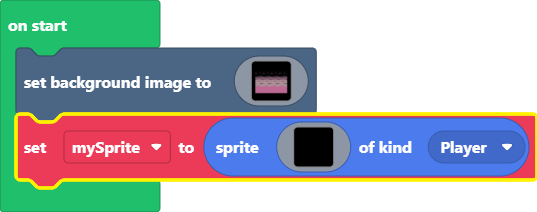
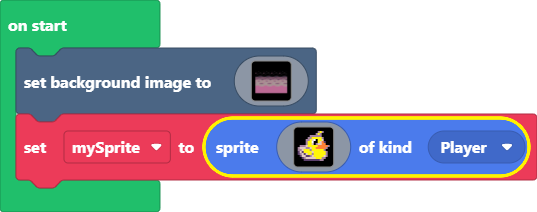
Update main.blocks, main.ts

Changed region(s): [[0.0, 0.5094, 1.0, 0.9057], [0.5363, 0.6226, 0.6257, 0.7642], [0.3575, 0.6226, 0.3873, 0.7642]]

diff --git a/main.ts b/main.ts
@@ -121,20 +121,20 @@ scene.setBackgroundImage(img`
     3333333333333333333333333333333333333333333333333333333333333333333333333333333333333333333333333333333333333333333333333333333333333333333333333333333333333333
     `)
 let mySprite = sprites.create(img`
-    . . . . . . . . . . . . . . . . 
-    . . . . . . . . . . . . . . . . 
-    . . . . . . . . . . . . . . . . 
-    . . . . . . . . . . . . . . . . 
-    . . . . . . . . . . . . . . . . 
-    . . . . . . . . . . . . . . . . 
-    . . . . . . . . . . . . . . . . 
-    . . . . . . . . . . . . . . . . 
-    . . . . . . . . . . . . . . . . 
-    . . . . . . . . . . . . . . . . 
-    . . . . . . . . . . . . . . . . 
-    . . . . . . . . . . . . . . . . 
-    . . . . . . . . . . . . . . . . 
-    . . . . . . . . . . . . . . . . 
-    . . . . . . . . . . . . . . . . 
+    . . . . . . . . . . b 5 b . . . 
+    . . . . . . . . . b 5 b . . . . 
+    . . . . . . b b b b b b . . . . 
+    . . . . . b b 5 5 5 5 5 b . . . 
+    . . . . b b 5 d 1 f 5 5 d f . . 
+    . . . . b 5 5 1 f f 5 d 4 c . . 
+    . . . . b 5 5 d f b d d 4 4 . . 
+    . b b b d 5 5 5 5 5 4 4 4 4 4 b 
+    b d d d b b d 5 5 4 4 4 4 4 b . 
+    b b d 5 5 5 b 5 5 5 5 5 5 b . . 
+    c d c 5 5 5 5 d 5 5 5 5 5 5 b . 
+    c b d c d 5 5 b 5 5 5 5 5 5 b . 
+    . c d d c c b d 5 5 5 5 5 d b . 
+    . . c b d d d d d 5 5 5 b b . . 
+    . . . c c c c c c c c b b . . . 
     . . . . . . . . . . . . . . . . 
     `, SpriteKind.Player)
